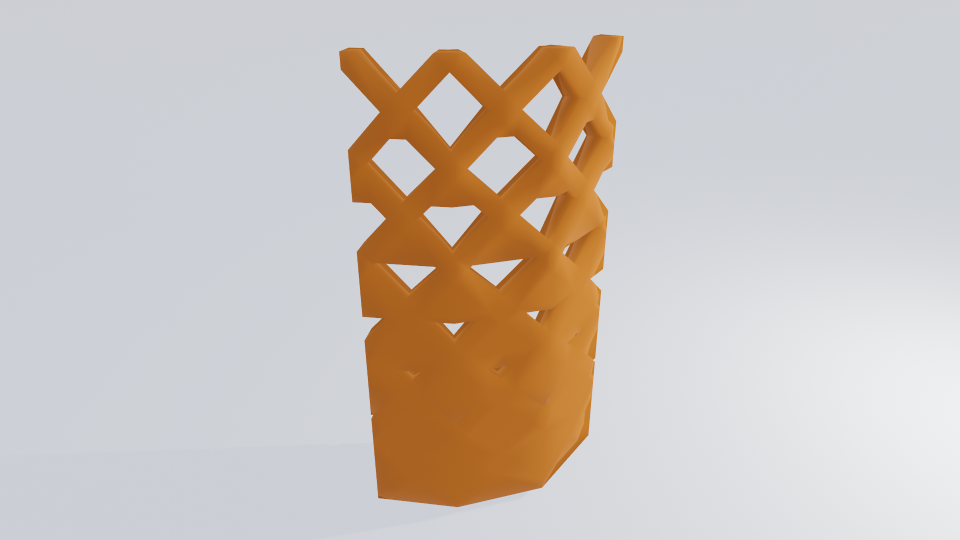
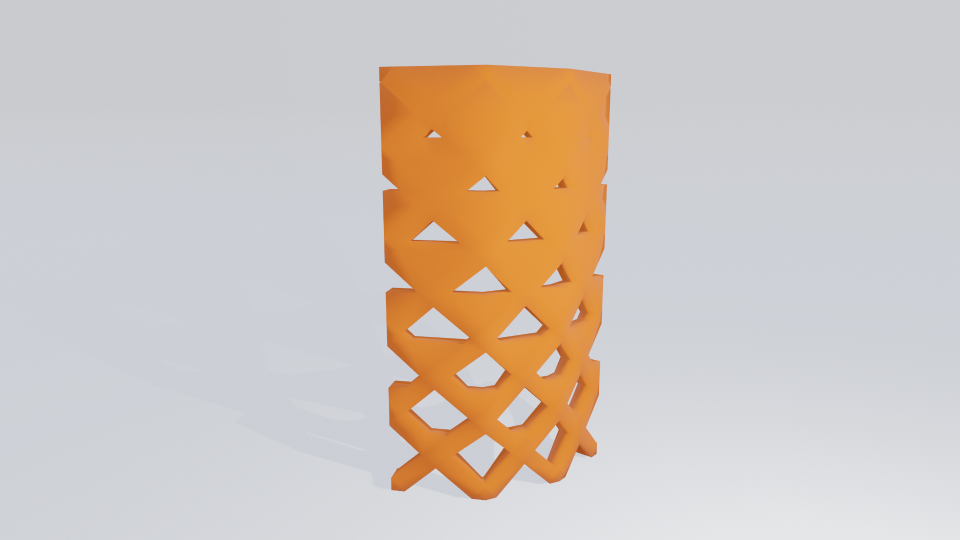
add images

Changed region(s): [[0.3438, 0.0593, 0.6562, 0.9481], [0.875, 0.5926, 1.0, 0.8]]

diff --git a/configs/demo3.py b/configs/demo3.py
@@ -16,13 +16,7 @@ config.length = 60
 config.roll_layers_gap = 60
 
 def fullness(angle, h_fraction):
-    f = min(max(h_fraction*1.6 - 0.2, 0), 1)
-    print(f"{h_fraction} {f}")
-    if h_fraction < 0.2:
-        return 0
-    if h_fraction > 0.8:
-        return 1
-    return min(max(h_fraction*1.6 - 0.2, 0), 1)
+    return min(max(h_fraction*1.2 - 0.1, 0), 1)
 
 config.cell_fullness_function = fullness
 

diff --git a/readme.md b/readme.md
@@ -2,20 +2,20 @@ Experiments with generating models for 3D printing using Python with `numpy-stl`
 
 # basic idea
 
-All models use "X-shape" as a base building block:
+All models use "X-shape" as a base building block
 ![X Shape](img/x.png)
 
-X-shapes can be stacked to form a grid:
+X-shapes can be stacked to form a grid
 ![X Shape](img/3x2.png)
 
-If stacked at an angle, they might form cylindrical or spiral shapes:
+If stacked at an angle, they might form cylindrical or spiral shapes
 ![Cylindrical stack](img/toy.png)
 ![Spiral stack](img/roll-demo.png)
 
-Each cell might have its own "fullness":
+Each cell might have its own "fullness". Here fullness increases from the bottom to the top
 ![Variable fullness](img/variable-fullness.png)
 
-# How to use
+# how to use
 
 1. install python >=3.9
 2. install dependencies from requirements.txt
@@ -28,5 +28,13 @@ You can change any parameters in the config to adjust model.
 
 # models
 
-
-
+![Mosquito net roll](img/roll.png)
+![Glass with groove](img/glass_with_groove.png)
+![Glass](img/glass.png)
+![Vase1](img/vase1.png)
+![Vase2](img/vase2.png)
+![Vase3](img/vase3.png)
+![Vase4](img/vase4.png)
+![Vase5](img/vase5.png)
+![Lampshade](img/lampshade.png)
+![Plate](img/plate.png)
